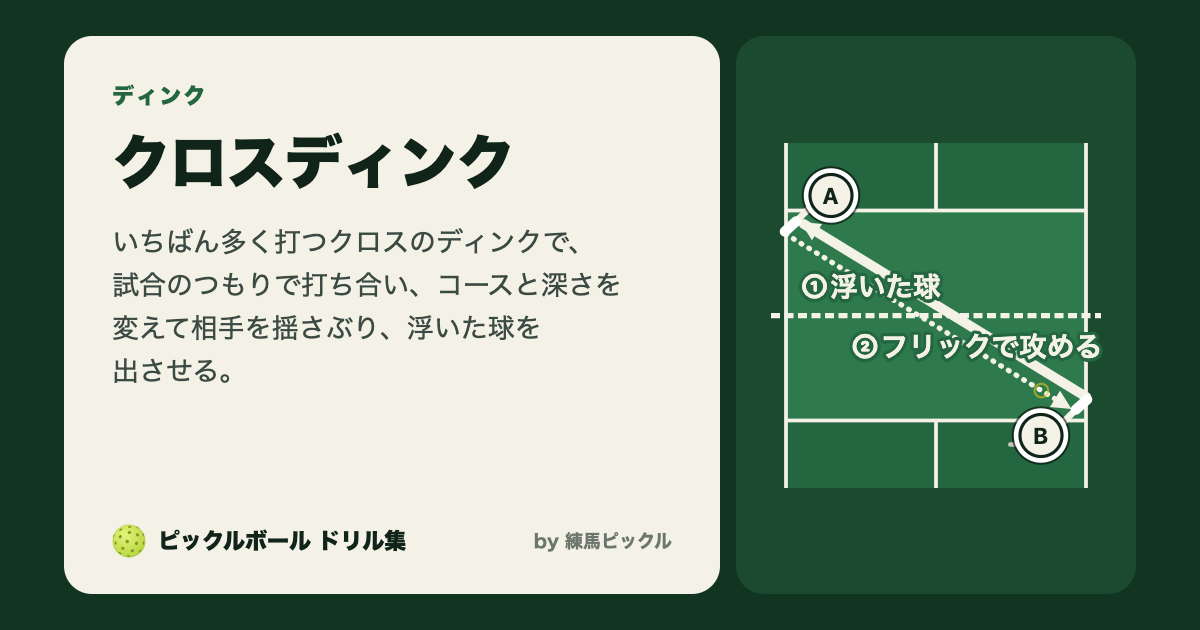
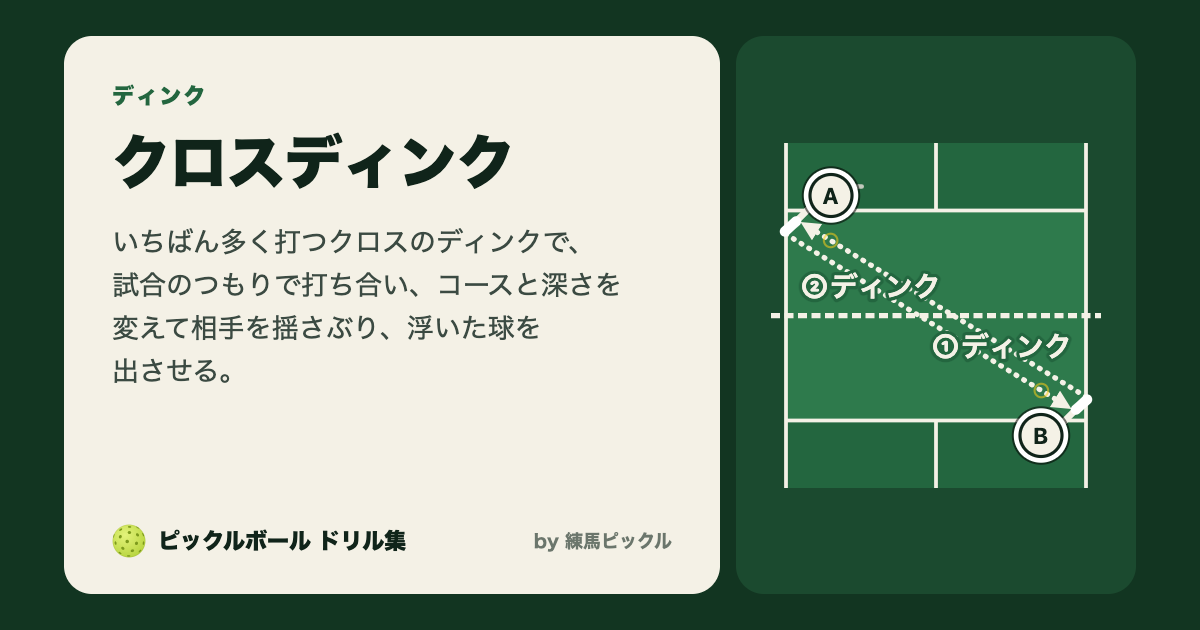
Record the situations rule; OG images for dnk001/dnk003
Claude-Session: https://claude.ai/code/session_013HpVCpnFevpdjrfSLpZjQ3

Changed region(s): [[0.6783, 0.3619, 0.925, 0.6333]]

diff --git a/.claude/skills/add-drill/SKILL.md b/.claude/skills/add-drill/SKILL.md
@@ -106,6 +106,7 @@ drill:
   - `purpose`: その場面でこの球を打つと何が起きるか（何のためにやるか）を、言い切りで書く。例（4th003）: 「4thで浮かせずに早いタイミングで返し、相手がキッチンへ上がる時間を与えず、5thで攻めさせない。」
   - 試合に近い形のドリルと、その要素だけを取り出して簡単にしたドリルがある。簡単にしたドリルも最終的には同じ試合の場面のための練習なので、`scene` と `purpose` の大きな目的は、試合に近い形のドリルと同じにする（例: 4th001〜4th006 はすべて 4th005 と同じ）。そのうえで `focus`（重点）に、そのドリルで特に取り組むことを1文で書く（どのドリルにも書く）。
   - **ディンクの高さの書き方**：ディンク・ボレーディンク・ドロップ・リセットなど柔らかく落とす球の文では、「ネットぎりぎり」「ネットの低いところを通す」と書かない（ぎりぎりをねらうとネットにかけやすい）。「相手が打つところで高くない（相手にノーバウンドで強く打たれない）」ことが大事だと書く（書き手が決めた規則）。ディンクの打ち合いでやりたいことは「相手が浮かせるのを待つ」ではなく、「コース・深さ・速さを変えて相手を揺さぶり、ミスや浮いた球を誘う」と書く（待っているだけでは相手の球は浮かない。書き手の指摘）。図も同じで、ディンクの仲間とリセットはコードが打つ人の側で山を作り、ネットの上を余裕を持って越えてから下げる（`SOFT_ARC`）。
+- 「もし〜が来たら、こうする」（例: 浮いた球が来たら攻める）は、基本の図（ラリーを続ける形）に混ぜない。`situations`（`when`・`then`・`diagram`）に書き、基本の図の下に、区切りの線の付いた短い図として出す（書き手の指摘 2026-11-28: ラリーの続きか別の場面かが分かるように、アニメーションを切り離す）。
 - ディンクの打ち合いで浮いた球を攻めるのは、フリックかボレー。ストレートのディンクでは、ときどきスピードアップも混ぜる。クロスのディンクでは、基本スピードアップはしない（書き手の指摘 2026-11-28）。練習中に大事なことは、読まれない「人数・交代・決まり」（やり方）ではなく、「練習のコツ」に書く。
 - ディンクのドリルは、攻めの場面（揺さぶって浮いた球を攻める）と守りの場面（押されている中でミスせずしのぐ）で、`scene`・`purpose` を分ける（書き手と決めた 2026-11-28）。守りが中心のドリル（dnk002・dnk009）は守りの文、それ以外（攻める側と守る側の両方がある dnk010 も含む）は攻めの文を使う。
 - 「キッチンへ上がると相手と対等になる」のような、どのドリルにも共通する前提は書かない（「大原則」ページ `src/content/docs/principles.md` にまとめる）。

diff --git a/docs/decisions.md b/docs/decisions.md
@@ -384,3 +384,4 @@
 - dnk001・dnk003 の練習のコツに「浮いた球はフリックかボレーで攻める」を入れた（やり方は「練習方法の詳細」にあり、練習中はほとんど読まれないため。書き手の指摘）。ストレート（dnk001）は「ときどきスピードアップも混ぜる」を残し、クロス（dnk003）では基本スピードアップをしないので外した。dnk003 は練習のコツが上限の5つなので、「ネットの一番低い真ん中あたりを通す」と入れ替えた（私が決めた）。
 - 「練習方法の詳細」のトグルを「人数・交代・決まり」に改め、図（アニメーション）で分かる手順は書かないことにした（書き手と決めた）。図では伝わらないこと（人数、交代のしかた、失敗やゲームの決まり、球出しへの注文、ほかのドリルとの関係）だけを残す。まずディンクの11本で見直し、よければ残りに広げる。
 - dnk001（ストレート）と dnk003（クロス）の図に、浮いた球を攻める場面を足した: ディンクの途中で浮いた球を A がボレー（パンチ）で相手の足元へ攻め、新しい球で続けて、弾んで浮いた球を B がフリックで攻める。派生形で切り替える案だったが、dnk003 はすでに派生形（自由／スライス）をディンクの打ち方に使っているので、1つの図の中で両方の攻め方を順に見せる形にした（私が決めた）。
+- dnk001・dnk003 の攻める場面は、1つの図で順に見せる形をやめ、基本の図はディンクのラリーだけにした。「もし浮いた球が来たら」を `situations` として、基本の図の下に区切りの線を付けて、ボレーとフリックの短い図を1つずつ出す（書き手の指摘: アニメーションが切り離されていることが分かるように）。
